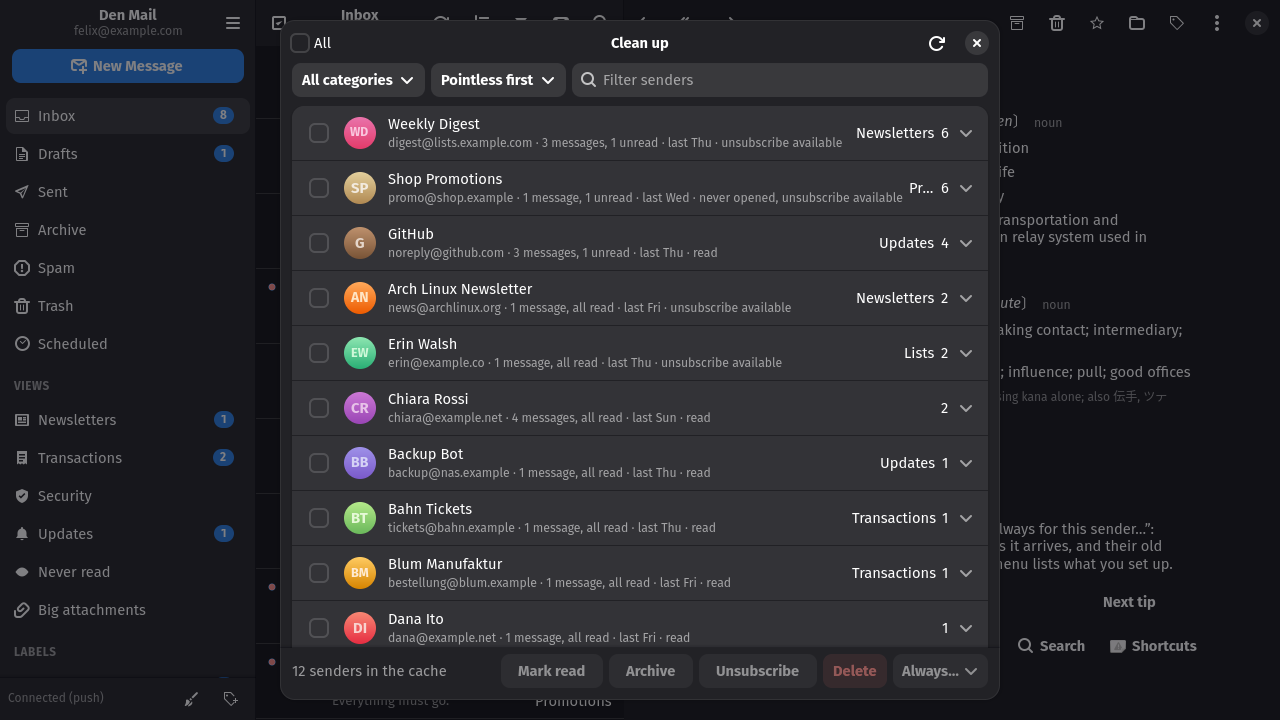
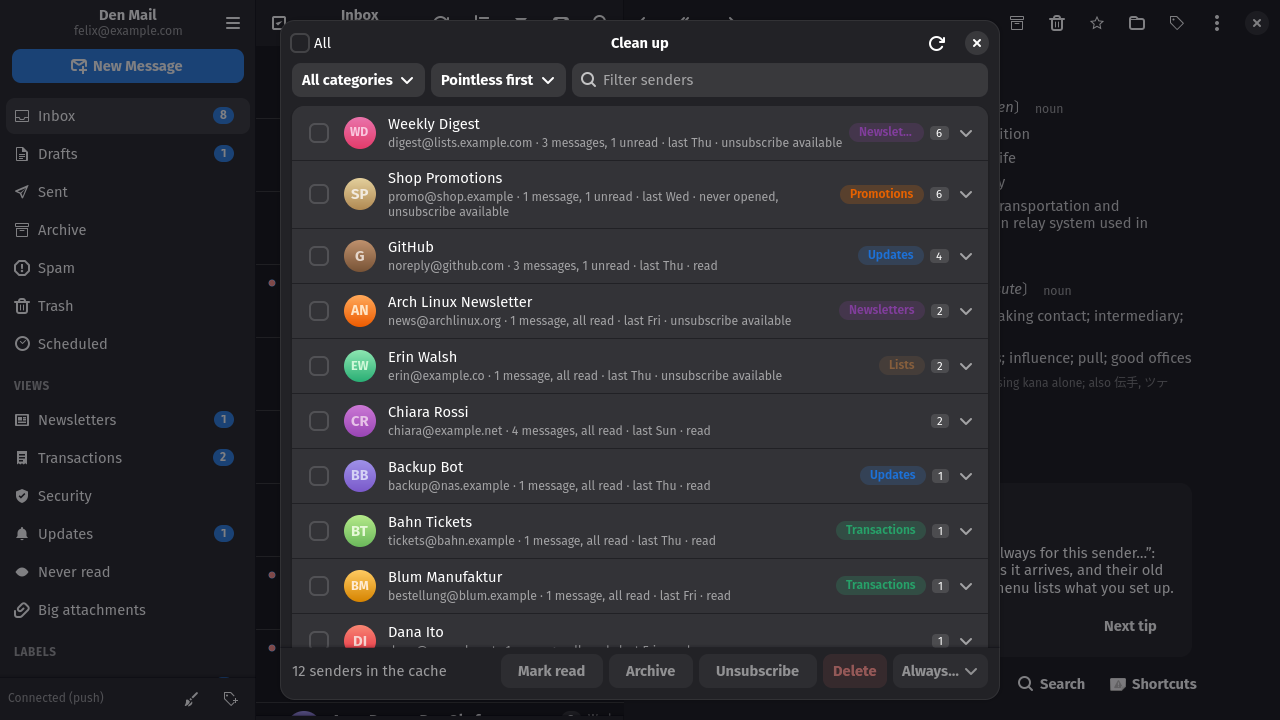
Labels and categories are coloured again; a switch turns the colours off
The .chip-suggestion block that came out of the #91 rebase had no closing
brace, so GTK stopped reading style.css there and every rule after it, the
label and category colours among them, was lost. The brace is back, a test
parses the stylesheet and counts the braces so this cannot happen quietly
again, and "Coloured labels and categories" under Appearance in Preferences
turns the colours off through a second CSS provider that overrides every
colour rule. The tour screenshots, taken with the broken stylesheet, are
regenerated (#105).

Claude-Session: https://claude.ai/code/session_01VDpY5EP7thEdxRV4pVnbq3

diff --git a/den_mail/style.css b/den_mail/style.css
@@ -178,6 +178,7 @@ listview.thread-list.grouped > row:hover:not(:selected) .sender-header {
 .chip-suggestion {
   border: 1px dashed alpha(currentColor, 0.5);
   background: transparent;
+}
 .beside-column {
   border-left: 1px solid alpha(@borders, 0.8);
 }

diff --git a/den_mail/ui/preferences.py b/den_mail/ui/preferences.py
@@ -22,6 +22,32 @@ def apply_color_scheme(config) -> None:
     install_palette_guard()
 
 
+_PLAIN_CHIPS: Gtk.CssProvider | None = None
+
+
+def apply_chip_colours(config) -> None:
+    """Coloured chips for labels and categories, or plain ones: a provider added on top of
+    the stylesheet overrides every colour rule with the same specificity (#105)."""
+    from gi.repository import Gdk
+
+    global _PLAIN_CHIPS
+    display = Gdk.Display.get_default()
+    if display is None:
+        return
+    if _PLAIN_CHIPS is None:
+        chips = [f".chip.label-color-{n}" for n in range(12)] + [
+            f".chip.category-{c}" for c in ("transactions", "security", "updates", "newsletters", "lists", "promotions")]
+        images = [f"image.label-color-{n}" for n in range(12)]
+        _PLAIN_CHIPS = Gtk.CssProvider()
+        _PLAIN_CHIPS.load_from_string(
+            ", ".join(chips) + " { background: alpha(currentColor, 0.12); color: inherit; }\n"
+            + ", ".join(images) + " { color: inherit; }\n")
+    if config.get("chip_colours", True):
+        Gtk.StyleContext.remove_provider_for_display(display, _PLAIN_CHIPS)
+    else:
+        Gtk.StyleContext.add_provider_for_display(display, _PLAIN_CHIPS, Gtk.STYLE_PROVIDER_PRIORITY_APPLICATION + 1)
+
+
 def _switch(config, key: str, default: bool, title: str, subtitle: str = "",
             after: Callable[[bool], None] | None = None) -> Adw.SwitchRow:
     row = Adw.SwitchRow(title=title, subtitle=subtitle, active=config.get(key, default))
@@ -95,6 +121,8 @@ class PreferencesDialog(Adw.PreferencesDialog):
 
         scheme.connect("notify::selected", on_scheme)
         appearance.add(scheme)
+        appearance.add(_switch(config, "chip_colours", True, "Coloured labels and categories",
+                               "Each label and category chip in its own colour", lambda _on: apply_chip_colours(config)))
         from ..avatars import SOURCES, logo_source
 
         logos = Adw.ComboRow(title="Sender logos", model=Gtk.StringList.new([

diff --git a/den_mail/app.py b/den_mail/app.py
@@ -64,10 +64,11 @@ class FastmailApp(Adw.Application):
                                                   Gtk.STYLE_PROVIDER_PRIORITY_APPLICATION)
         Gtk.IconTheme.get_for_display(Gdk.Display.get_default()).add_search_path(os.path.join(HERE, "icons"))
         from . import launch
-        from .ui.preferences import apply_color_scheme
+        from .ui.preferences import apply_chip_colours, apply_color_scheme
 
         launch.configure(self.config)
         apply_color_scheme(self.config)
+        apply_chip_colours(self.config)
         self._log_theme_state("at startup")
         GLib.timeout_add_seconds(5, lambda: (self._log_theme_state("5s later"), False)[1])
         for name, cb in (("about", self._about), ("quit", self._quit), ("activate", lambda *_: self.activate())):

diff --git a/tests/test_css.py b/tests/test_css.py
@@ -1,0 +1,25 @@
+"""The stylesheet parses to the end: an unclosed block once dropped every rule after it (#105)."""
+
+from __future__ import annotations
+
+from pathlib import Path
+
+import gi
+
+gi.require_version("Gtk", "4.0")
+from gi.repository import Gtk
+
+CSS = Path(__file__).resolve().parent.parent / "den_mail" / "style.css"
+
+
+def test_stylesheet_has_no_parsing_errors():
+    errors = []
+    provider = Gtk.CssProvider()
+    provider.connect("parsing-error", lambda _p, section, err: errors.append(f"{section.to_string()}: {err.message}"))
+    provider.load_from_path(str(CSS))
+    assert errors == []
+
+
+def test_braces_balance():
+    text = CSS.read_text()
+    assert text.count("{") == text.count("}")

diff --git a/den_mail/config.py b/den_mail/config.py
@@ -29,6 +29,7 @@ DEFAULTS: dict[str, Any] = {
     "sidebar_width": 260,
     "beside_min_width": 2200,  # window width (sp) from which "Open beside" pins a second column (#35)
     "avatar_source": "",  # "direct" | "proxy" | "bimi" | "off": where sender logos come from (#63); "" = sender_avatars
+    "chip_colours": True,  # label and category chips in colour, or plain (#105)
     "sidebar_views": True,  # the Views section (#19): local lists such as Newsletters and Never read
     "screener": False,  # first-time senders wait in the Screener view until let through (#24)
     "label_suggestions": True,  # chips offering a label the learned models are sure about (#60)

diff --git a/changelog.d/105-chip-colours.fixes.md b/changelog.d/105-chip-colours.fixes.md
@@ -1,0 +1,1 @@
+Labels and categories are coloured again: an unclosed block in the stylesheet had dropped every rule after it. A test now parses the stylesheet, and "Coloured labels and categories" in Preferences turns the colours off for plain chips
